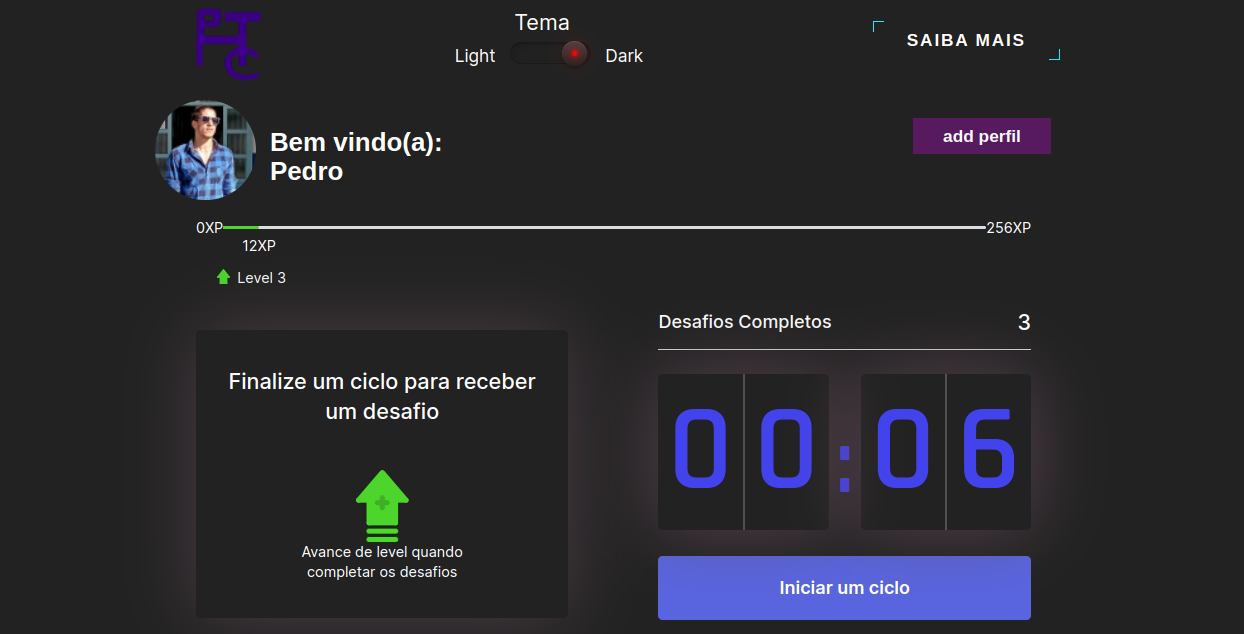
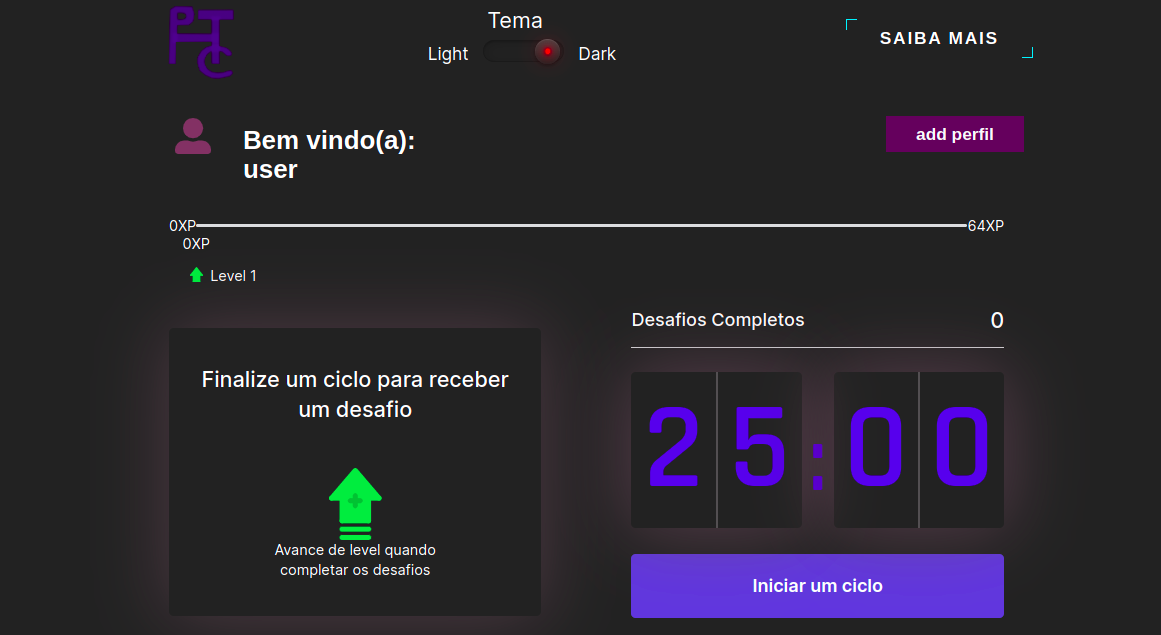
gitGif

diff --git a/src/contexts/CountDownContext.tsx b/src/contexts/CountDownContext.tsx
@@ -22,7 +22,7 @@ export const CountdownContext = createContext({} as CountdownContextData)
 
 export function CountdownProvider({ children }: CountdownProviderProps) {
     const { startNewChallenge } = useContext(ChallengesContext);
-    const [time, setTime] = useState(0.1 * 60);
+    const [time, setTime] = useState(25 * 60);
     const [isActive, setIsActive] = useState(false);
     const [hasFinished, setHasFinished] = useState(false);
     const minutes = Math.floor(time / 60);
